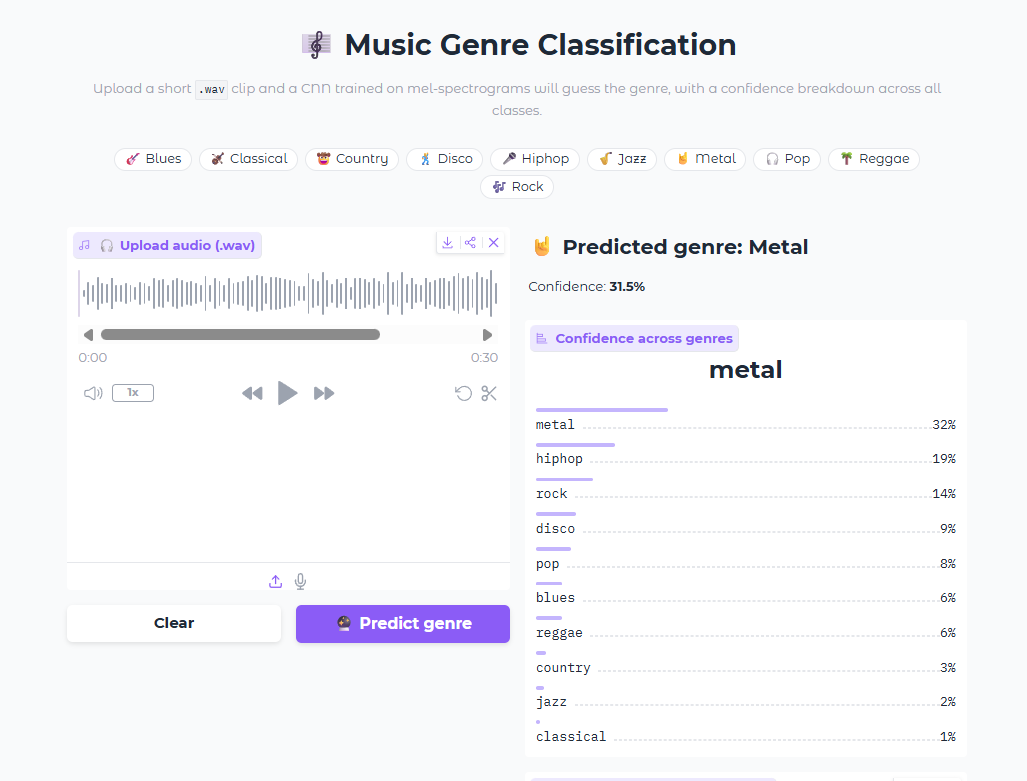
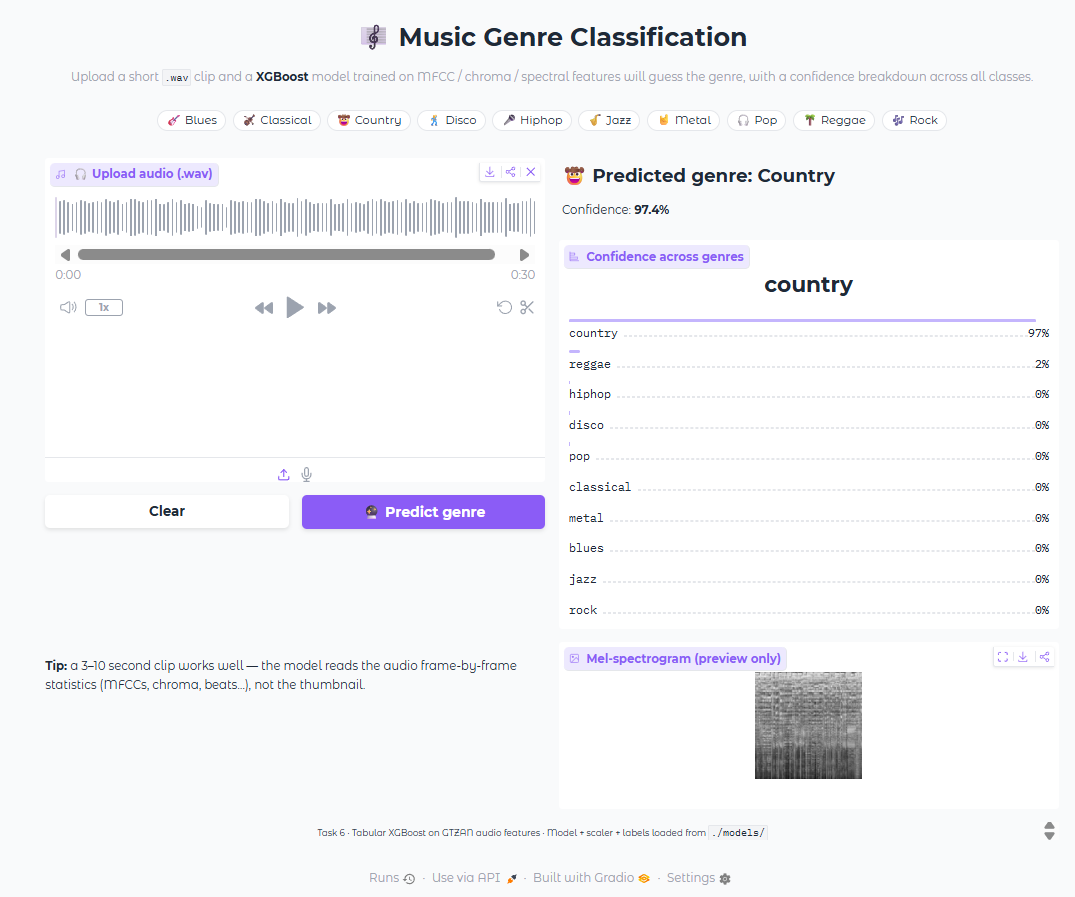
Refactor Gradio app for Music Genre Classification: switch to XGBoost model, update feature extraction, and enhance UI elements

diff --git a/task-06-music-genre-classification/app.py b/task-06-music-genre-classification/app.py
@@ -1,8 +1,11 @@
 """Standalone Gradio app for Task 6 — Music Genre Classification.
 
-Loads the trained CNN from ./models/ (saved by notebook.ipynb) and exposes an upgraded
-Gradio interface (Blocks-based) for the same prediction pipeline as the notebook's final
-section. Fully self-contained — no notebook dependency.
+Loads the trained tabular XGBoost model from ./models/ (saved by notebook.ipynb) and
+exposes a Gradio interface (Blocks-based). The model is fed classic GTZAN audio
+features (MFCCs, chroma, spectral centroid/bandwidth, rolloff, zero-crossing rate,
+harmonic/percussive energy, tempo) reproduced from the uploaded .wav in the exact
+column order the model was trained on (feature_names.pkl). The mel-spectrogram image
+is shown in the UI as a visual preview only — it is no longer model input.
 
 Run standalone locally from the task folder with:
     python app.py
@@ -13,7 +16,6 @@ import os
 import joblib
 import numpy as np
 
-import tensorflow as tf
 import librosa
 from PIL import Image
 
@@ -22,8 +24,11 @@ import gradio as gr
 BASE_DIR = os.path.dirname(os.path.abspath(__file__))
 MODELS_DIR = os.path.join(BASE_DIR, "models")
 
-model = tf.keras.models.load_model(os.path.join(MODELS_DIR, "cnn_best.keras"))
-GENRES = joblib.load(os.path.join(MODELS_DIR, "class_names.pkl"))
+tabular_model = joblib.load(os.path.join(MODELS_DIR, "tabular_model.pkl"))
+scaler = joblib.load(os.path.join(MODELS_DIR, "scaler.pkl"))
+encoder = joblib.load(os.path.join(MODELS_DIR, "encoder.pkl"))
+FEATURE_NAMES = joblib.load(os.path.join(MODELS_DIR, "feature_names.pkl"))
+GENRES = list(encoder.classes_)
 
 IMG_SIZE = (128, 128)
 
@@ -47,7 +52,7 @@ def _emoji_for(genre: str) -> str:
 
 
 def audio_to_spectrogram_image(audio_path, target_size=IMG_SIZE):
-    """Convert a .wav file to a normalized 128x128 RGB mel-spectrogram image."""
+    """Convert a .wav file to a 128x128 RGB mel-spectrogram preview image (visual only)."""
     y, sr = librosa.load(audio_path, sr=22050)
     mel = librosa.feature.melspectrogram(
         y=y, sr=sr, n_mels=128, hop_length=512)
@@ -58,9 +63,62 @@ def audio_to_spectrogram_image(audio_path, target_size=IMG_SIZE):
     return pil
 
 
+def extract_tabular_features(audio_array, sr=22050):
+    """Reproduce the exact 57 GTZAN features the tabular model was trained on.
+
+    Mirrors the extraction that produced features_3_sec.csv: per-frame means and
+    variances of chroma, rms, spectral centroid/bandwidth, rolloff, zero-crossing
+    rate, harmonic/percussive energy, tempo, and MFCC1-20 (mean block, then var
+    block), returned in the exact order of feature_names.pkl.
+    """
+    n_fft = 2048
+    hop_length = 512
+
+    chroma_stft = librosa.feature.chroma_stft(
+        y=audio_array, sr=sr, n_fft=n_fft, hop_length=hop_length)
+    rmse = librosa.feature.rms(
+        y=audio_array, frame_length=n_fft, hop_length=hop_length)
+    spec_cent = librosa.feature.spectral_centroid(
+        y=audio_array, sr=sr, n_fft=n_fft, hop_length=hop_length)
+    spec_bw = librosa.feature.spectral_bandwidth(
+        y=audio_array, sr=sr, n_fft=n_fft, hop_length=hop_length)
+    rolloff = librosa.feature.spectral_rolloff(
+        y=audio_array, sr=sr, n_fft=n_fft, hop_length=hop_length)
+    zcr = librosa.feature.zero_crossing_rate(
+        audio_array, frame_length=n_fft, hop_length=hop_length)
+    harmony, percussive = librosa.effects.harmonic(audio_array), librosa.effects.percussive(audio_array)
+    tempo, _ = librosa.beat.beat_track(y=audio_array, sr=sr)
+    mfccs = librosa.feature.mfcc(
+        y=audio_array, sr=sr, n_mfcc=20, n_fft=n_fft, hop_length=hop_length)
+
+    feat_map = {}
+    for name, value in (
+        ("chroma_stft", chroma_stft),
+        ("rms", rmse),
+        ("spectral_centroid", spec_cent),
+        ("spectral_bandwidth", spec_bw),
+        ("rolloff", rolloff),
+        ("zero_crossing_rate", zcr),
+        ("harmony", harmony),
+        ("perceptr", percussive),
+    ):
+        feat_map[f"{name}_mean"] = float(np.mean(value))
+        feat_map[f"{name}_var"] = float(np.var(value))
+
+    feat_map["tempo"] = float(np.atleast_1d(tempo)[0])
+
+    mfcc_means = np.mean(mfccs, axis=1)
+    mfcc_vars = np.var(mfccs, axis=1)
+    for i in range(1, 21):
+        feat_map[f"mfcc{i}_mean"] = float(mfcc_means[i - 1])
+        feat_map[f"mfcc{i}_var"] = float(mfcc_vars[i - 1])
+
+    return np.array([feat_map[name] for name in FEATURE_NAMES])
+
+
 def predict(audio_file):
     """Run inference and return everything the UI needs: headline text, confidence
-    dict, and the spectrogram image so the user can see what the model "saw"."""
+    dict, and the spectrogram preview image."""
     if audio_file is None:
         empty = {g: 0.0 for g in GENRES}
         return (
@@ -69,22 +127,35 @@ def predict(audio_file):
             None,
         )
 
-    pil_img = audio_to_spectrogram_image(audio_file)
-    X = np.expand_dims(np.array(pil_img), axis=0)
-    proba = model.predict(X, verbose=0)[0]
+    try:
+        y, sr = librosa.load(audio_file, sr=22050)
+        if len(y) < 22050:
+            raise ValueError("Clip too short — upload at least ~1 second of audio.")
+        feat_vector = extract_tabular_features(y, sr)
+        X = scaler.transform(feat_vector.reshape(1, -1))
+        proba = tabular_model.predict_proba(X)[0]
 
-    pred_idx = int(np.argmax(proba))
-    genre = GENRES[pred_idx]
-    confidence_pct = float(proba[pred_idx]) * 100
+        pred_idx = int(np.argmax(proba))
+        genre = encoder.inverse_transform([pred_idx])[0]
+        confidence_pct = float(proba[pred_idx]) * 100
 
-    confidences = {g: round(float(p), 4) for g, p in zip(GENRES, proba)}
+        confidences = {g: round(float(p), 4) for g, p in zip(GENRES, proba)}
 
-    headline = (
-        f"## {_emoji_for(genre)} Predicted genre: **{genre.title()}**\n"
-        f"Confidence: **{confidence_pct:.1f}%**"
-    )
+        headline = (
+            f"## {_emoji_for(genre)} Predicted genre: **{genre.title()}**\n"
+            f"Confidence: **{confidence_pct:.1f}%**"
+        )
 
-    return headline, confidences, pil_img
+        pil_img = audio_to_spectrogram_image(audio_file)
+        return headline, confidences, pil_img
+
+    except Exception as exc:
+        empty = {g: 0.0 for g in GENRES}
+        return (
+            f"### Could not process that clip 😕\n<sub>{exc}</sub>",
+            empty,
+            None,
+        )
 
 
 CUSTOM_CSS = """
@@ -130,8 +201,9 @@ with gr.Blocks(
     with gr.Column(elem_id="header-block"):
         gr.Markdown(
             "# 🎼 Music Genre Classification\n"
-            "Upload a short `.wav` clip and a CNN trained on mel-spectrograms will "
-            "guess the genre, with a confidence breakdown across all classes."
+            "Upload a short `.wav` clip and a **XGBoost** model trained on MFCC / "
+            "chroma / spectral features will guess the genre, with a confidence "
+            "breakdown across all classes."
         )
         gr.HTML(f"<div>{GENRE_CHIPS}</div>")
 
@@ -148,8 +220,8 @@ with gr.Blocks(
                     "🔮 Predict genre", variant="primary", elem_id="predict-btn"
                 )
             gr.Markdown(
-                "**Tip:** a 3–10 second clip works well — the model only looks at "
-                "a single mel-spectrogram snapshot of the audio."
+                "**Tip:** a 3–10 second clip works well — the model reads the audio "
+                "frame-by-frame statistics (MFCCs, chroma, beats…), not the thumbnail."
             )
 
         with gr.Column(scale=1):
@@ -159,7 +231,7 @@ with gr.Blocks(
             confidence_out = gr.Label(
                 label="Confidence across genres", num_top_classes=10)
             spectrogram_out = gr.Image(
-                label="Mel-spectrogram (model input)", type="pil", height=200
+                label="Mel-spectrogram (preview only)", type="pil", height=200
             )
 
     clear_btn.add([audio_in, result_md, confidence_out, spectrogram_out])
@@ -176,8 +248,8 @@ with gr.Blocks(
     )
 
     gr.Markdown(
-        "<center><sub>Task 6 · CNN trained on GTZAN-style mel-spectrograms · "
-        "Model + labels loaded from <code>./models/</code></sub></center>"
+        "<center><sub>Task 6 · Tabular XGBoost on GTZAN audio features · "
+        "Model + scaler + labels loaded from <code>./models/</code></sub></center>"
     )
 
 if __name__ == "__main__":
